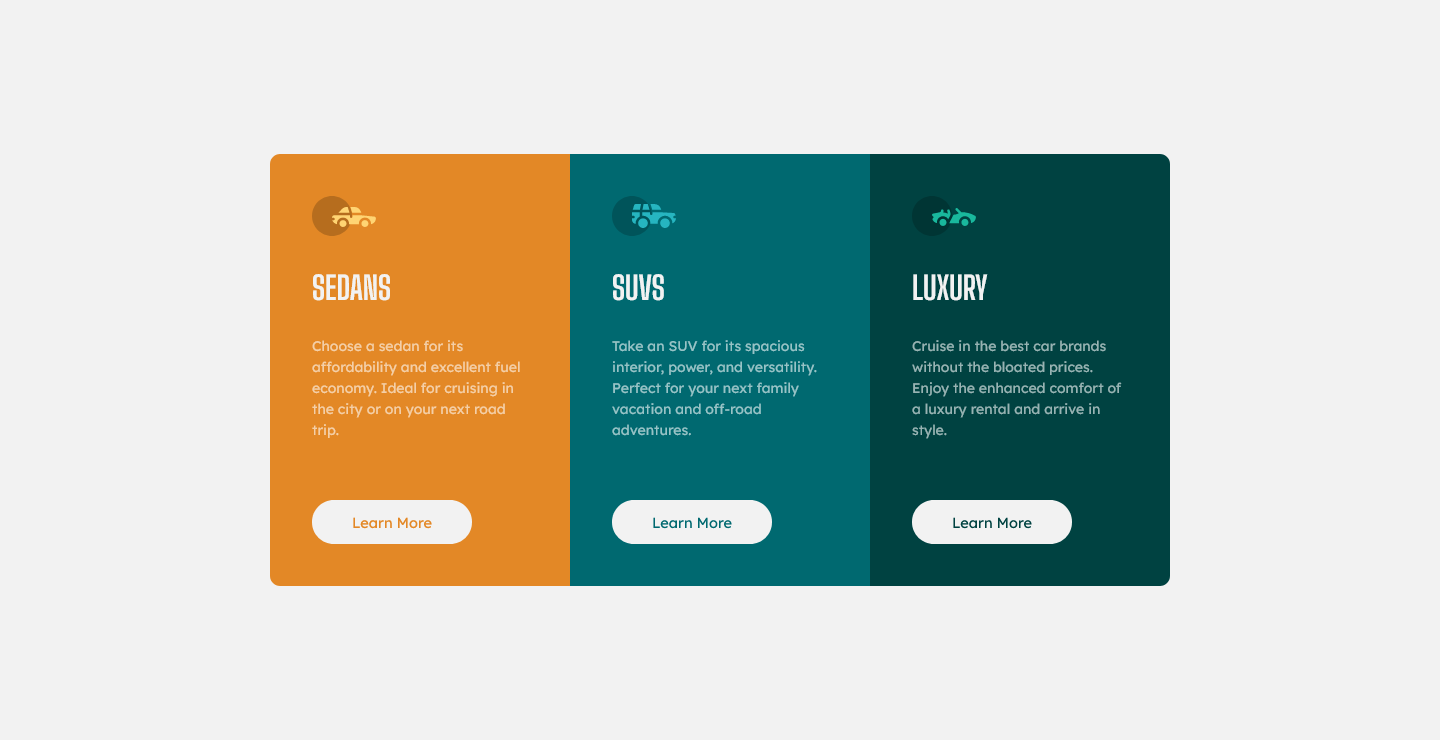
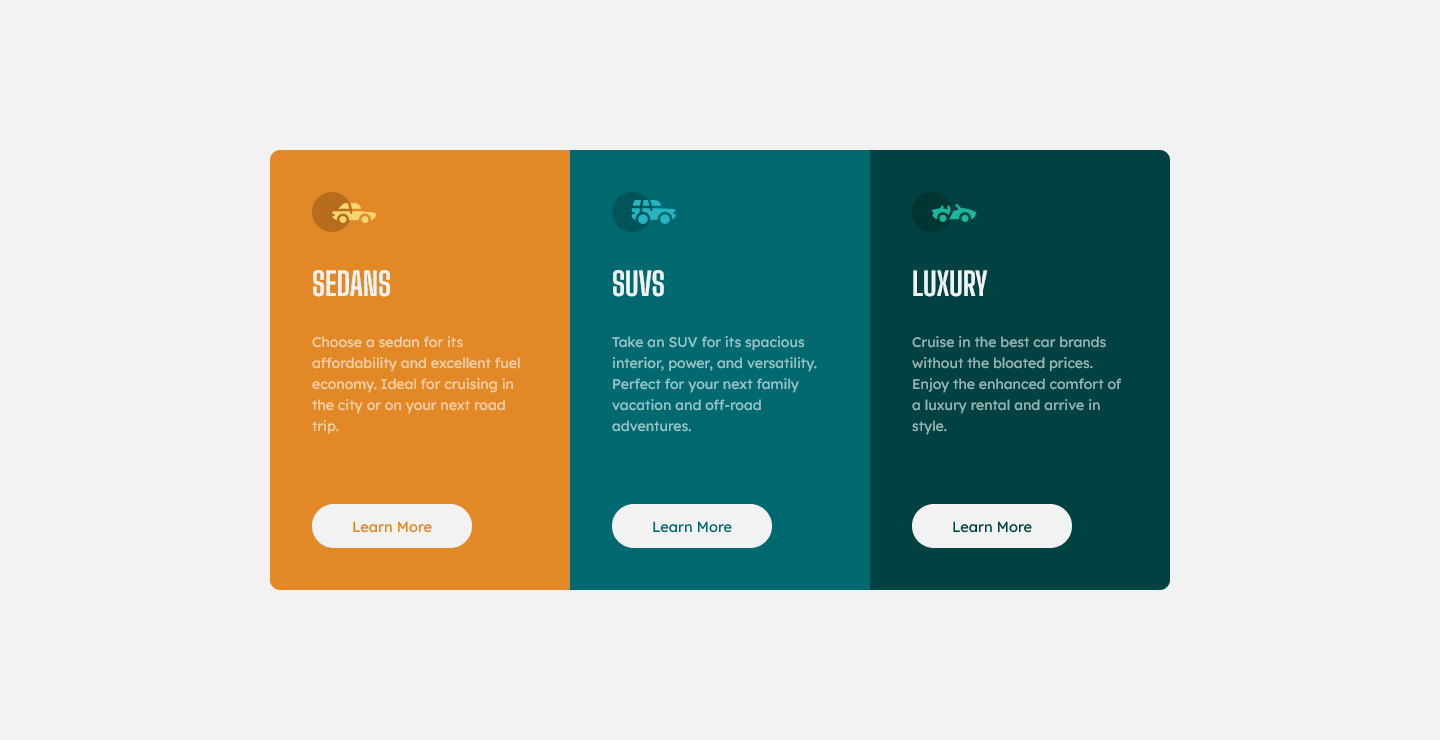
first commit

diff --git a/style.css b/style.css
@@ -61,7 +61,7 @@ section {
   opacity: 0.8;
 }
 .btn {
-  margin-top: 2rem;
+  margin-top: 2.5rem;
   text-decoration: none;
   text-align: center;
   font-size: 14.5px;
